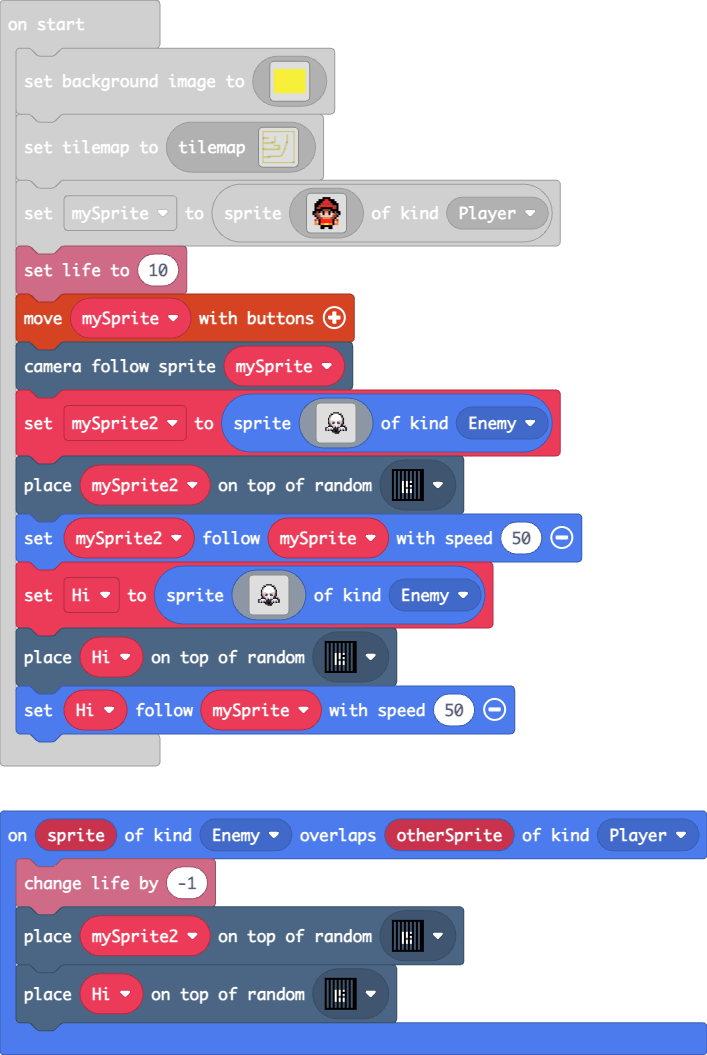
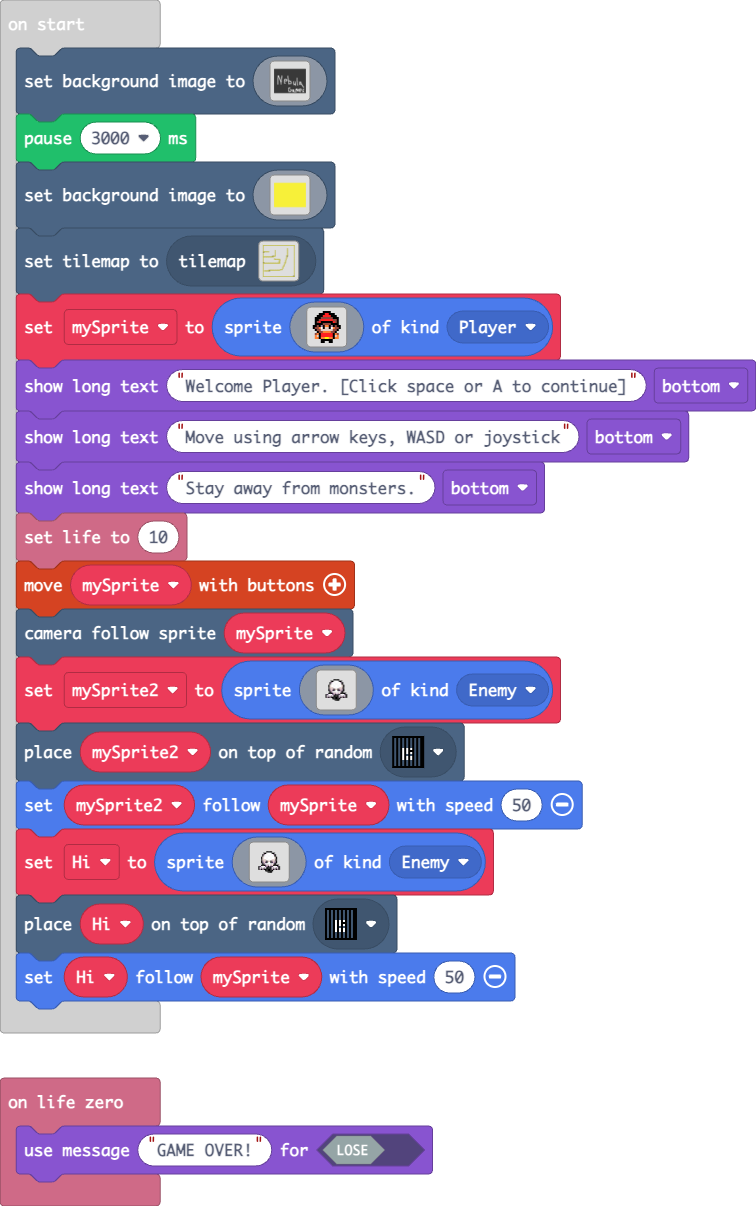
Update main.blocks, main.ts

diff --git a/main.ts b/main.ts
@@ -3,8 +3,134 @@ sprites.onOverlap(SpriteKind.Enemy, SpriteKind.Player, function (sprite, otherSp
     tiles.placeOnRandomTile(mySprite2, assets.tile`myTile0`)
     tiles.placeOnRandomTile(Hi, assets.tile`myTile0`)
 })
+info.onLifeZero(function () {
+    game.setGameOverMessage(false, "GAME OVER!")
+})
 let Hi: Sprite = null
 let mySprite2: Sprite = null
+scene.setBackgroundImage(img`
+    ffffffffffffffffffffffffffffffffffffffffffffffffffffffffffffffffffffffffffffffffffffffffffffffffffffffffffffffffffffffffffffffffffffffffffffffffffffffffffffffff
+    ffffffffffffffffffffffffffffffffffffffffffffffffffffffffffffffffffffffffffffffffffffffffffffffffffffffffffffffffffffffffffffffffffffffffffffffffffffffffffffffff
+    ffffffffffffffffffffffffffffffffffffffffffffffffffffffffffffffffffffffffffffffffffffffffffffffffffffffffffffffffffffffffffffffffffffffffffffffffffffffffffffffff
+    ffffffffffffffffffffffffffffffffffffffffffffffffffffffffffffffffffffffffffffffffffffffffffffffffffffffffffffffffffffffffffffffffffffffffffffffffffffffffffffffff
+    ffffffffffffffffffffffffffffffffffffffffffffffffffffffffffffffffffffffffffffffffffffffffffffffffffffffffffffffffffffffffffffffffffffffffffffffffffffffffffffffff
+    ffffffffffffffffffffffffffffffffffffffffffffffffffffffffffffffffffffffffffffffffffffffffffffffffffffffffffffffffffffffffffffffffffffffffffffffffffffffffffffffff
+    ffffffffffffffffffffffffffffffffffffffffffffffffffffffffffffffffffffffffffffffffffffffffffffffffffffffffffffffffffffffffffffffffffffffffffffffffffffffffffffffff
+    ffffffffffffffffffffffffffffffffffffffffffffffffffffffffffffffffffffffffffffffffffffffffffffffffffffffffffffffffffffffffffffffffffffffffffffffffffffffffffffffff
+    ffffffffffffffffffffffffffffffffffffffffffffffffffffffffffffffffffffffffffffffffffffffffffffffffffffffffffffffffffffffffffffffffffffffffffffffffffffffffffffffff
+    ffffffffffffffffffffffffffffffffffffffffffffffffffffffffffffffffffffffffffffffffffffffffffffffffffffffffffffffffffffffffffffffffffffffffffffffffffffffffffffffff
+    ffffffffffffffffffffffffffffffffffffffffffffffffffffffffffffffffffffffffffffffffffffffffffffffffffffffffffffffffffffffffffffffffffffffffffffffffffffffffffffffff
+    ffffffffffffffffffffffffffffffffffffffffffffffffffffffffffffffffffffffffffffffffffffffffffffffffffffffffffffffffffffffffffffffffffffffffffffffffffffffffffffffff
+    ffffffffffffffffffffffffffffffffffffffffffffffffffffffffffffffffffffffffffffffffffffffffffffffffffffffffffffffffffffffffffffffffffffffffffffffffffffffffffffffff
+    ffffffffffffffffffffffffffffffffffffffffffffffffffffffffffffffffffffffffffffffffffffffffffffffffffffffffffffffffffffffffffffffffffffffffffffffffffffffffffffffff
+    ffffffffffffffffffffffffffffffffffffffffffffffffffffffffffffffffffffffffffffffffffffffffffffffffffffffffffffffffffffffffffffffffffffffffffffffffffffffffffffffff
+    ffffffffffffffffffffffffffffffffffffffffffffffffffffffffffffffffffffffffffffffffffffffffffffffffffffffffffffffffffffffffffffffffffffffffffffffffffffffffffffffff
+    ffffffffffffffffffffffffffffffffffffffffffffffffffffffffffffffffffffffffffffffffffffffffffffffffffffffffffffffffffffffffffffffffffffffffffffffffffffffffffffffff
+    ffffffffffffffffffffffffffffffffffffffffffffffffffffffffffffffffffffffffffffffffffffffffffffffffffffffffffffffffffffffffffffffffffffffffffffffffffffffffffffffff
+    ffffffffffffffffffffffffffffffffffffffffffffffffffffffffffffffffffffffffffffffffffffffffffffffffffffffffffffffffffffffffffffffffffffffffffffffffffffffffffffffff
+    ffffffffffffffffffffffffffffffffffffffffffffffffffffffffffffffffffffffffffffffffffffffffffffffffffffffffffffffffffffffffffffffffffffffffffffffffffffffffffffffff
+    ffffffffffffffffffffffffffffffffffffffffffffffffffffffffffffffffffffffffffffffffffffffffffffffffffffffffffffffffffffffffffffffffffffffffffffffffffffffffffffffff
+    ffffffffffffffffffffffffffffffffffffffffffffffffffffffffffffffffffffffffffffffffffffffffffffffffffffffffffffffffffffffffffffffffffffffffffffffffffffffffffffffff
+    ffffffffffffffffffffffffffffffffffffffffffffffffffffffffffffffffffffffffffffffffffffffffffffffffffffffffffffffffffffffffffffffffffffffffffffffffffffffffffffffff
+    ffffffffffffffffffffffffffffffffffffffffffffffffffffffffffffffffffffffffffffffffffffffffffffffffffffffffffffffffffffffffffffffffffffffffffffffffffffffffffffffff
+    ffffffffffffffffffffffffffffffffffffffffffffffffffffffffffffffffffffffffffffffffffffffffffffffffffffffffffffffffffffffffffffffffffffffffffffffffffffffffffffffff
+    ffffffffffffffffffffffffffffffffffffffffffffffffffffffffffffffffffffffffffffffffffffffffffffffffffffffffffffffffffffffffffffffffffffffffffffffffffffffffffffffff
+    ffffffffffffffffffffffffffffffffffffffffffffffffffffffffffffffffffffffffffffffffffffffffffffffffffffffffffffffffffffffffffffffffffffffffffffffffffffffffffffffff
+    ffffffffffffffffffffffffffffffffffffffffffffffffffffffffffffffffffffffffffffffffffffffffffffffffffffffffffffffffffffffffffffffffffffffffffffffffffffffffffffffff
+    ffffffffffffffffffffffffffffffffffffffffffffffffffffffffffffffffffffffffffffffffffffffffffffffffffffffffffffffffffffffffffffffffffffffffffffffffffffffffffffffff
+    ffffffffffffffffffffffffffffffffffffffffffffffffffffffffffffffffffffffffffffffffffffffffffffffffffffffffffffffffffffffffffffffffffffffffffffffffffffffffffffffff
+    ffffffffffffffffffffffffffffffffffffffffffffffffffffffffffffffffffffffffffffffffffffffffffffffffffffffffffffffffffffffffffffffffffffffffffffffffffffffffffffffff
+    ffffffffffffffffffffffffffffffffffffffffffffffffffffffffffffffffffffffffffffffffffffffffffffffffffffffffffffffffffffffffffffffffffffffffffffffffffffffffffffffff
[86 lines of base64/hex data omitted]
+    ffffffffffffffffffffffffffffffffffffffffffffffffffffffffffffffffffffffffffffffffffffffffffffffffffffffffffffffffffffffffffffffffffffffffffffffffffffffffffffffff
+    ffffffffffffffffffffffffffffffffffffffffffffffffffffffffffffffffffffffffffffffffffffffffffffffffffffffffffffffffffffffffffffffffffffffffffffffffffffffffffffffff
+    `)
+pause(3000)
 scene.setBackgroundImage(img`
     5555555555555555555555555555555555555555555555555555555555555555555555555555555555555555555555555555555555555555555555555555555555555555555555555555555555555555
     5555555555555555555555555555555555555555555555555555555555555555555555555555555555555555555555555555555555555555555555555555555555555555555555555555555555555555
@@ -146,6 +272,9 @@ let mySprite = sprites.create(img`
     . . . . . f f f f f f . . . . . 
     . . . . . f f . . f f . . . . . 
     `, SpriteKind.Player)
+game.showLongText("Welcome Player. [Click space or A to continue]", DialogLayout.Bottom)
+game.showLongText("Move using arrow keys, WASD or joystick", DialogLayout.Bottom)
+game.showLongText("Stay away from monsters.", DialogLayout.Bottom)
 info.setLife(10)
 controller.moveSprite(mySprite)
 scene.cameraFollowSprite(mySprite)
